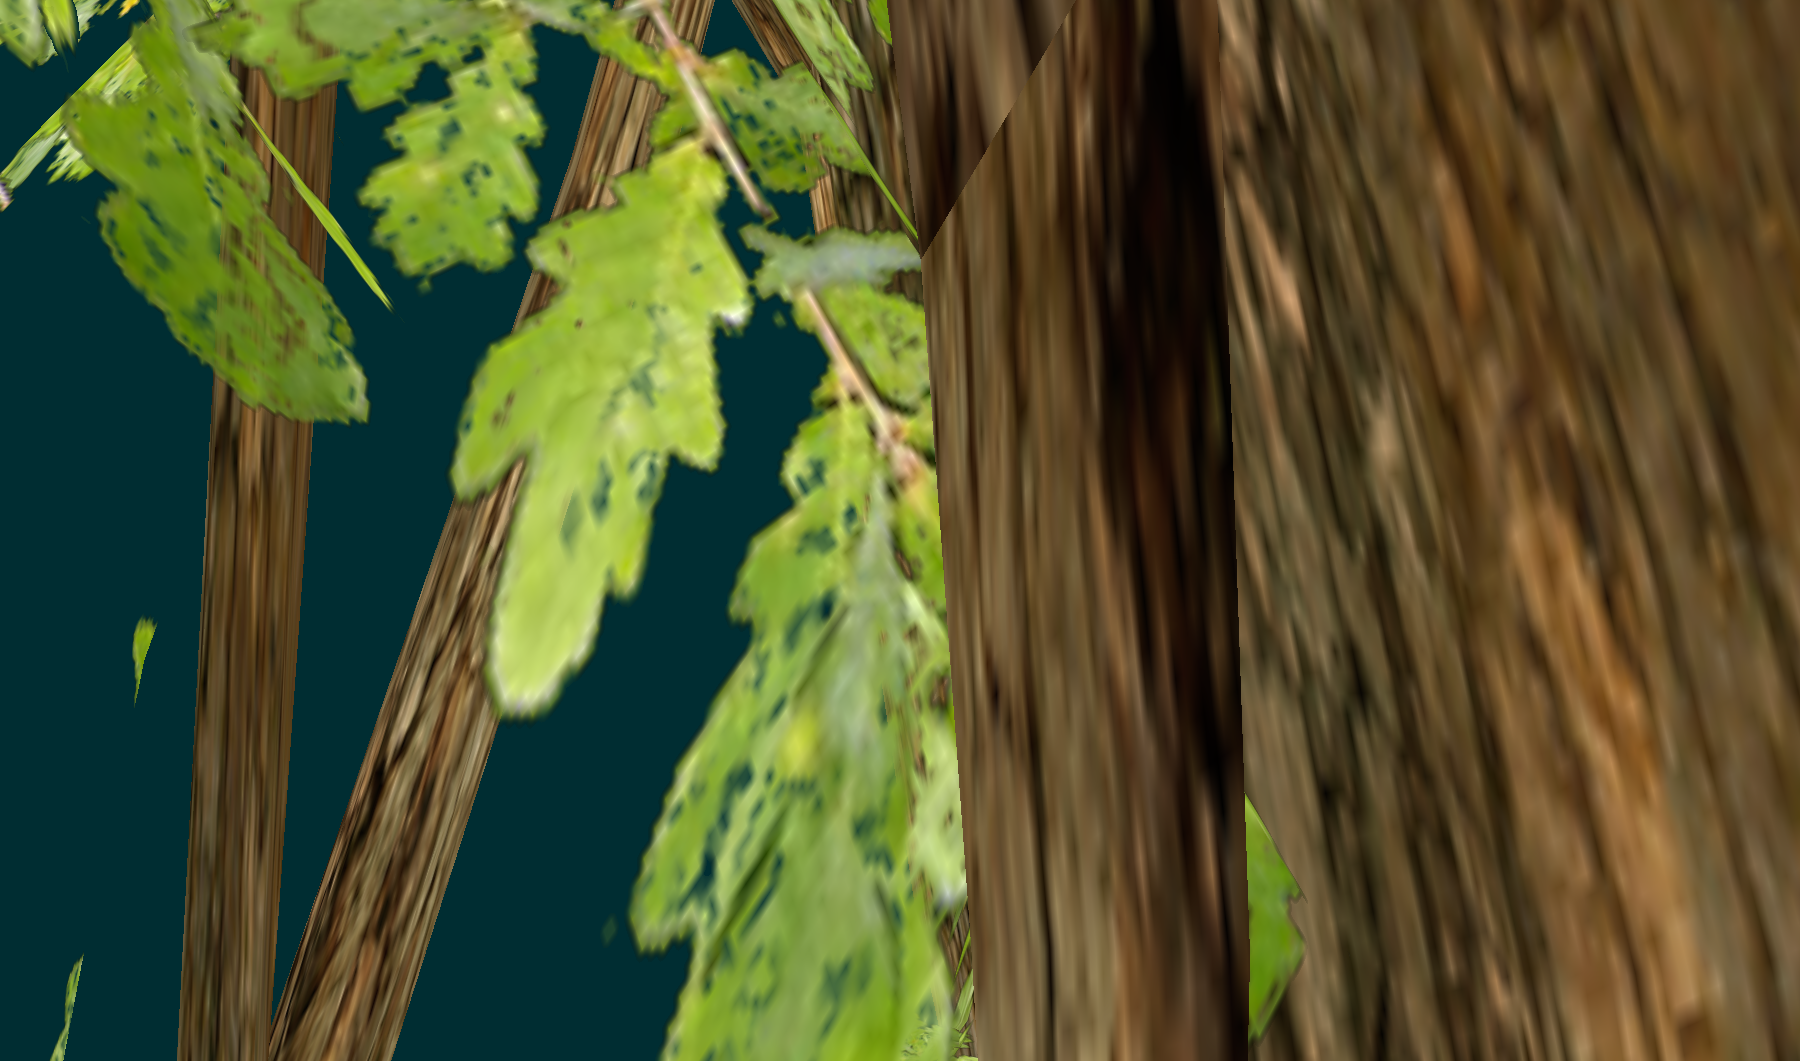
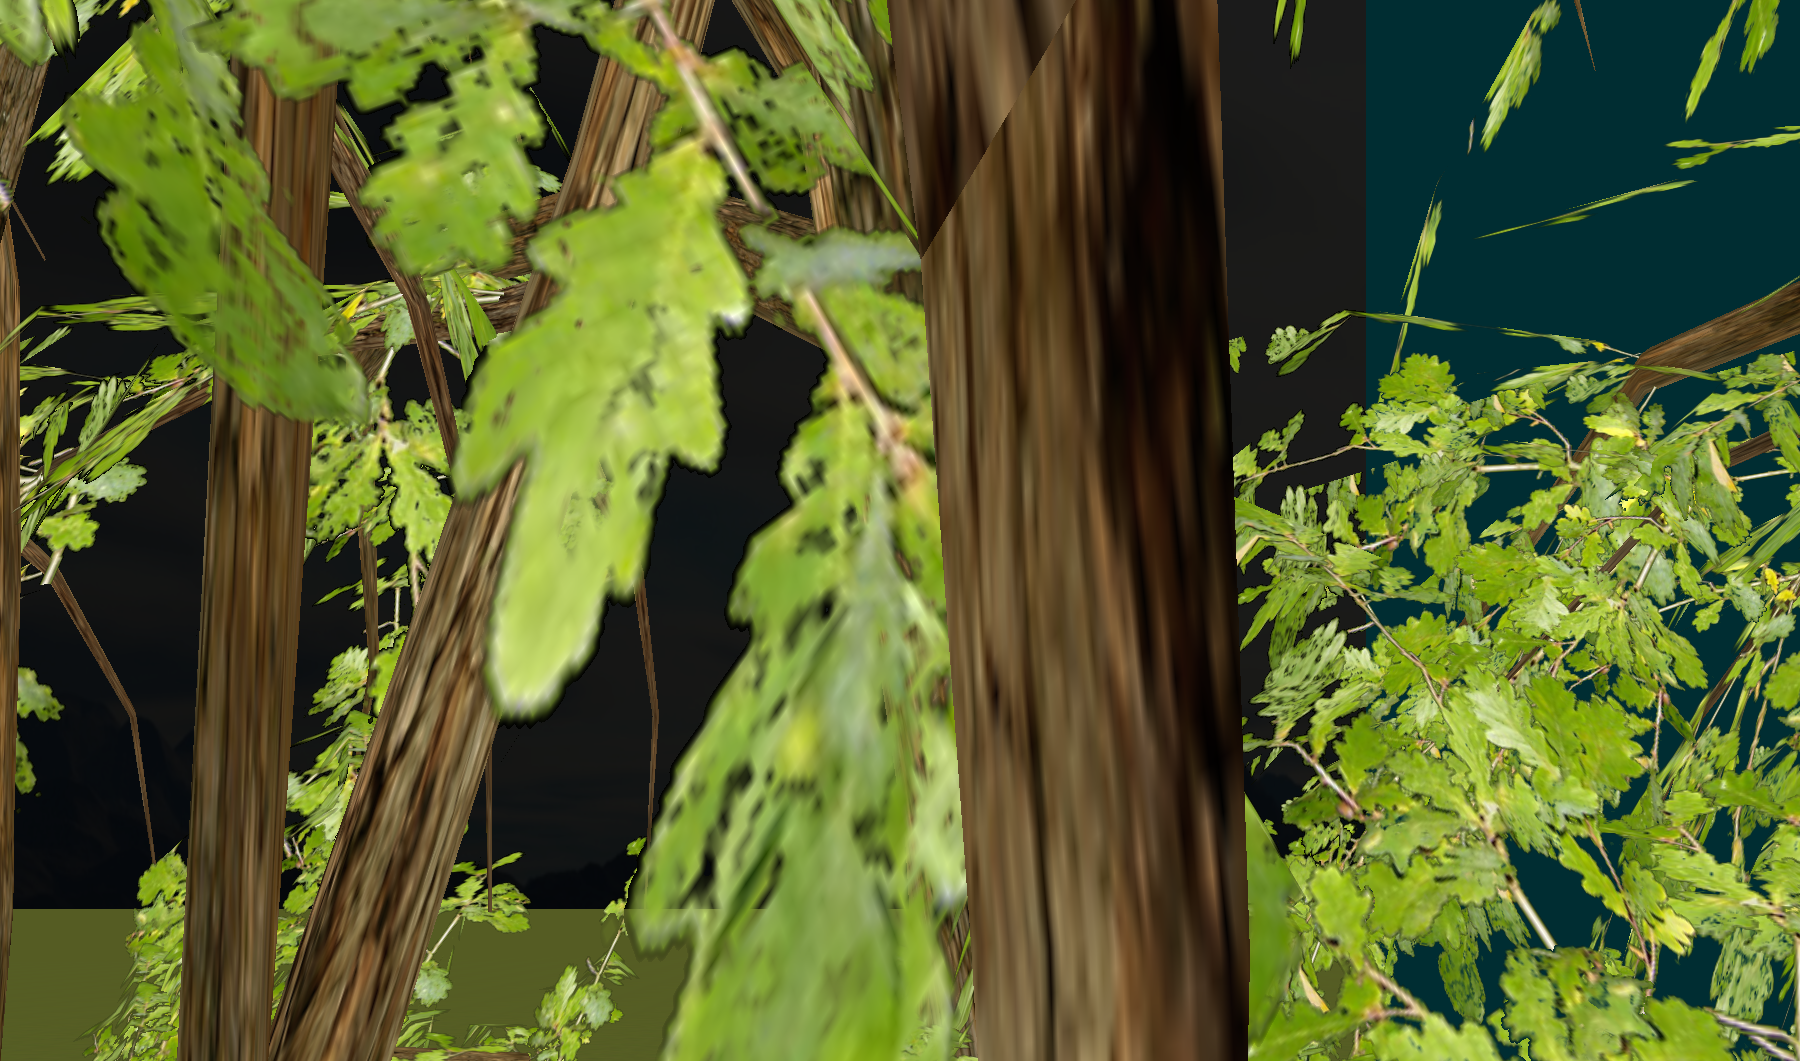
Refactoring Draw call on mesh and improving material class

diff --git a/src/Renderer/Mesh.cpp b/src/Renderer/Mesh.cpp
@@ -62,24 +62,24 @@ Mesh::Mesh(std::vector<Vertex>& vertices, std::vector<unsigned int>& indices, st
 	setupMesh(layouts);
 }
 
-///TODO: Refactor this and sync with DrawInstanced!
+///TODO: Ongoing -> REFACTORING THIS
 void Mesh::Draw(Shader& shader, bool useInstanced, int instancedAmmount)
 {
 	unsigned int diffuseNr = 1;
 	unsigned int specularNr = 1;
 
-	//1 = has texture
-	//0 = none
-	int hasTexture = material.textures.size() > 0 ? 1 : 0;
-	int hasReflection = 0;
 
 	//Count number of textures used, so then it will be possible to properly clean the shader program:
 	int totalActiveTextureUnits = 0;
 
 
 	shader.Activate();
-	shader.SetUniformInt("hasTexture", hasTexture);
-	shader.SetUniformInt("material.useColor", 1); //Use color by default
+	shader.SetUniformInt("hasTexture", this->material.hasTexture);
+	shader.SetUniformInt("material.useColor", this->material.useColor);
+	shader.SetUniformInt("HasReflectionTexture", this->material.hasReflection);
+	shader.SetUniform4fv("material.color", material.color);
+	shader.SetUniformFloat("material.ior", 0.5f); 	// material.IndiceOfReflection
+	shader.SetUniformFloat("material.shininess", material.shininess);
 
 
 	for (unsigned int i = 0; i < material.textures.size(); i++)
@@ -88,8 +88,6 @@ void Mesh::Draw(Shader& shader, bool useInstanced, int instancedAmmount)
 		totalActiveTextureUnits++;
 
 		material.textures[i].BindTexture();
-		shader.SetUniformInt("material.useColor", 0); //USE TEXTURE IF HAS TEXTURE!
-
 		std::string number;
 		std::string name = material.textures[i].TextureTypeToUniform(material.textures[i].type);
 
@@ -106,25 +104,11 @@ void Mesh::Draw(Shader& shader, bool useInstanced, int instancedAmmount)
 		else if (material.textures[i].type == eTextureType::Diffuse_CubeMap)
 		{
 			shader.SetUniformInt(("material." + name).c_str(), i);
-			hasReflection = 1;
-
-			//If mesh has only 1 texture, and it is the skybox texture, the shader will use mtl color to calculate frag color
-			//Otherwise, can use the diffuse
-			if (material.textures.size() == 1)
-			{
-				shader.SetUniformInt("material.useColor", 1); //USE COLOR IF THE ONLY TEXTURE IS FOR REFLECTION (IT WILL MIX THE COLOR AND REFLECTION INSIDE THE SHADER)!
-			}
-
 			continue;
 		}
 
 		shader.SetUniformInt(("material." + name + number).c_str(), i);
 	}
-
-	shader.SetUniformInt("HasReflectionTexture", hasReflection);
-	shader.SetUniform4fv("material.color", material.color);
-	shader.SetUniformFloat("material.ior", 0.5f); 	// material.IndiceOfReflection
-	shader.SetUniformFloat("material.shininess", material.shininess);
 
 	glBindVertexArray(VAO);
 
@@ -146,10 +130,14 @@ void Mesh::Draw(Shader& shader, bool useInstanced, int instancedAmmount)
 	//RESET ALL CONFIG TO DEFAULT (CLEAN THE SHADER PROGRAM)
 	shader.SetUniformInt("HasReflectionTexture", 0);
 
-	for (int i = 0; i < totalActiveTextureUnits; i++)
-	{
-		glActiveTexture(GL_TEXTURE0 + i);
-		glBindTexture(GL_TEXTURE_2D, 0);
-	}
+	glActiveTexture(GL_TEXTURE0);
+	glBindTexture(GL_TEXTURE_2D, 0);
 
+
+	////This code is being called a lot of times on random moments
+	//for (int i = 0; i < totalActiveTextureUnits; i++)
+	//{
+	//	glActiveTexture(GL_TEXTURE0 + i);
+	//	glBindTexture(GL_TEXTURE_2D, 0);
+	//}
 }

diff --git a/src/Renderer/SceneManager.cpp b/src/Renderer/SceneManager.cpp
@@ -105,9 +105,9 @@ void SceneManager::LoadModelsAndSetPositions()
     //Pushing the skybox texture to create reflection effect (used as a texture on those models, shader use this texture to sample values from)
     //Test: Enviroment map texture 
     //Obs: To render a framebuffer texture to a model, just Push new texture calling GetFramebufferTexture and make sure that the fbo is receiving data on the render pass
-    //cube->PushNewTexture(*ContentManager::GlobalRenderer->GetEnviromentMapTexture());
+    cube->PushNewTexture(*ContentManager::GlobalRenderer->GetEnviromentMapTexture());
 
-   //DynamicReflectiveObject = ContentManager::CreateEntity(NO_STENCIL_TEST, cube, glm::vec3(14, 2, 1), glm::vec3(1), 0, false, false);
+    DynamicReflectiveObject = ContentManager::CreateEntity(NO_STENCIL_TEST, cube, glm::vec3(14, 2, 1), glm::vec3(1), 0, false, false);
 
     /*
     *   END OF REFLECTIVE OBJ
@@ -402,8 +402,8 @@ void SceneManager::RenderScene(Window& window)
 
     window.GL_ClearBuffers(0, 0, 0, 1.0f); //glClear Color, Stencil and Depth buffer
 
-    /*
-    * 
+    
+    
     //Second pass: Enviroment map - Render the scene 6x  
     ContentManager::GlobalRenderer->BindEnviromentFramebuffer();
 
@@ -413,7 +413,7 @@ void SceneManager::RenderScene(Window& window)
     ContentManager::GlobalRenderer->UnbindEnviromentFramebuffer();
     window.GL_ClearBuffers(0, 0, 0, 1.0f); //glClear Color, Stencil and Depth buffer
 
-    */
+    
 
     //Draw Scene nodes recursively:
     RootNode->UpdateNode(true, false);

diff --git a/src/Renderer/Material.h b/src/Renderer/Material.h
@@ -9,6 +9,9 @@ struct Material
 	glm::vec4 color;
 	float shininess = 20.f;
 	float IndiceOfReflection = 0.f;
+	int hasTexture = 0;
+	int hasReflection = 0;
+	int useColor = 1;
 
 	Material(std::vector<Texture> _textures, glm::vec4 _color, float _shininess, float IOR)
 	{
@@ -16,7 +19,46 @@ struct Material
 		color = _color;
 		shininess = _shininess;
 		IndiceOfReflection = IOR;
+		SetHasTexture();
+		SetHasReflection();
+		SetUseColor();
 	}
 
 	Material() {}
+
+	void SetMaterialProperties()
+	{
+		SetHasTexture();
+		SetHasReflection();
+		SetUseColor();
+	}
+
+	void SetHasTexture()
+	{
+		this->hasTexture = textures.size() > 0 ? 1 : 0;
+	}
+
+	void SetHasReflection()
+	{
+		for (int i = 0; i < textures.size(); i++)
+		{
+			if (textures[i].type == eTextureType::Diffuse_CubeMap)
+			{
+				hasReflection = 1;
+				return;
+			}
+		}
+
+		hasReflection = 0;
+	}
+
+	void SetUseColor()
+	{
+		if (textures.size() == 1 && textures[0].type == eTextureType::Diffuse_CubeMap) useColor = 1; //USE COLOR IF THE ONLY TEXTURE IS FOR REFLECTION (IT WILL MIX THE COLOR AND REFLECTION INSIDE THE SHADER)!
+		else if (textures.size() > 0) useColor = 0;
+		else
+		{
+			useColor = 1;
+		}
+	}
 };

diff --git a/src/Renderer/Model.cpp b/src/Renderer/Model.cpp
@@ -404,6 +404,7 @@ void Model::PushNewTexture(Texture& newTexture)
     for (auto& mesh : meshes)
     {
         mesh.material.textures.push_back(newTexture);
+        mesh.material.SetMaterialProperties();
     }
 }
 
